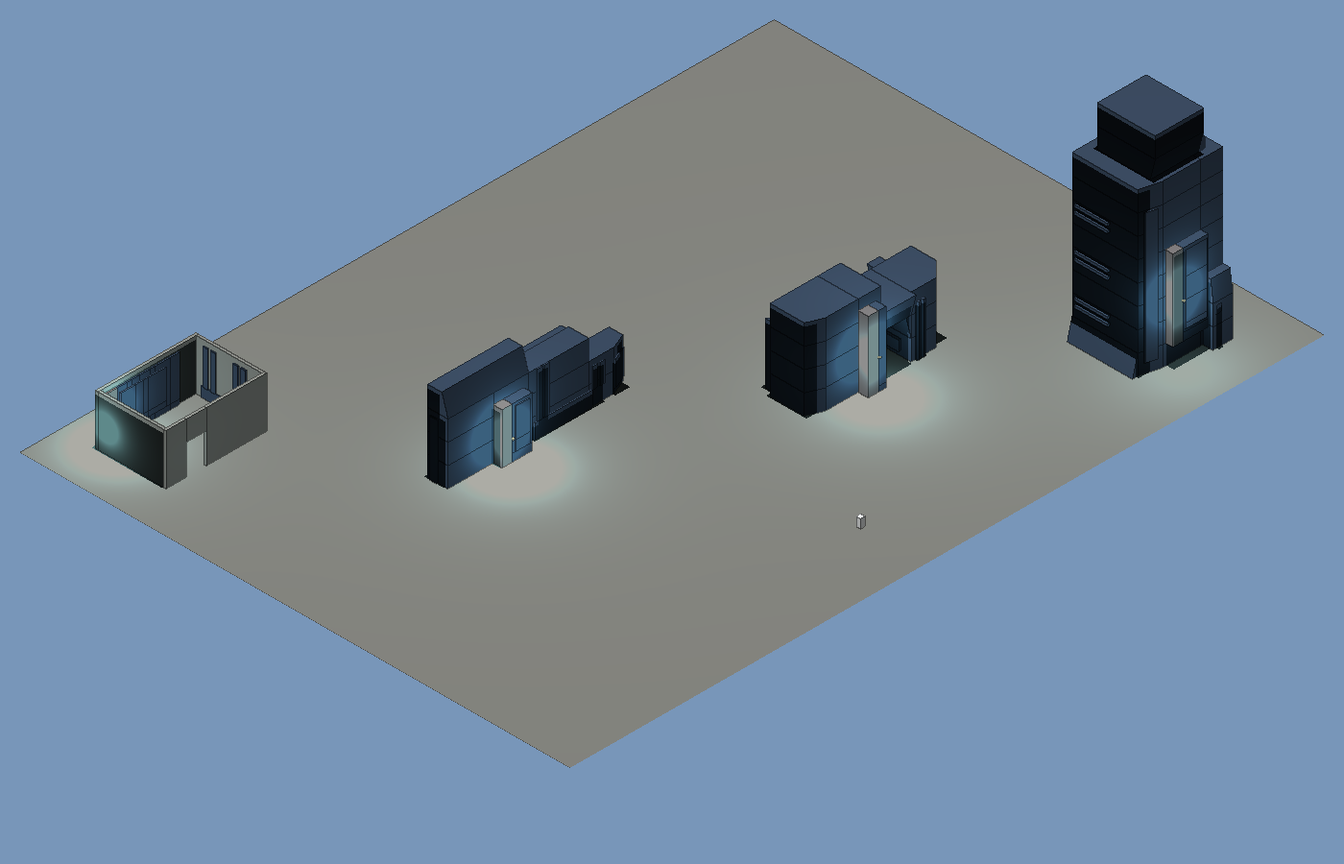
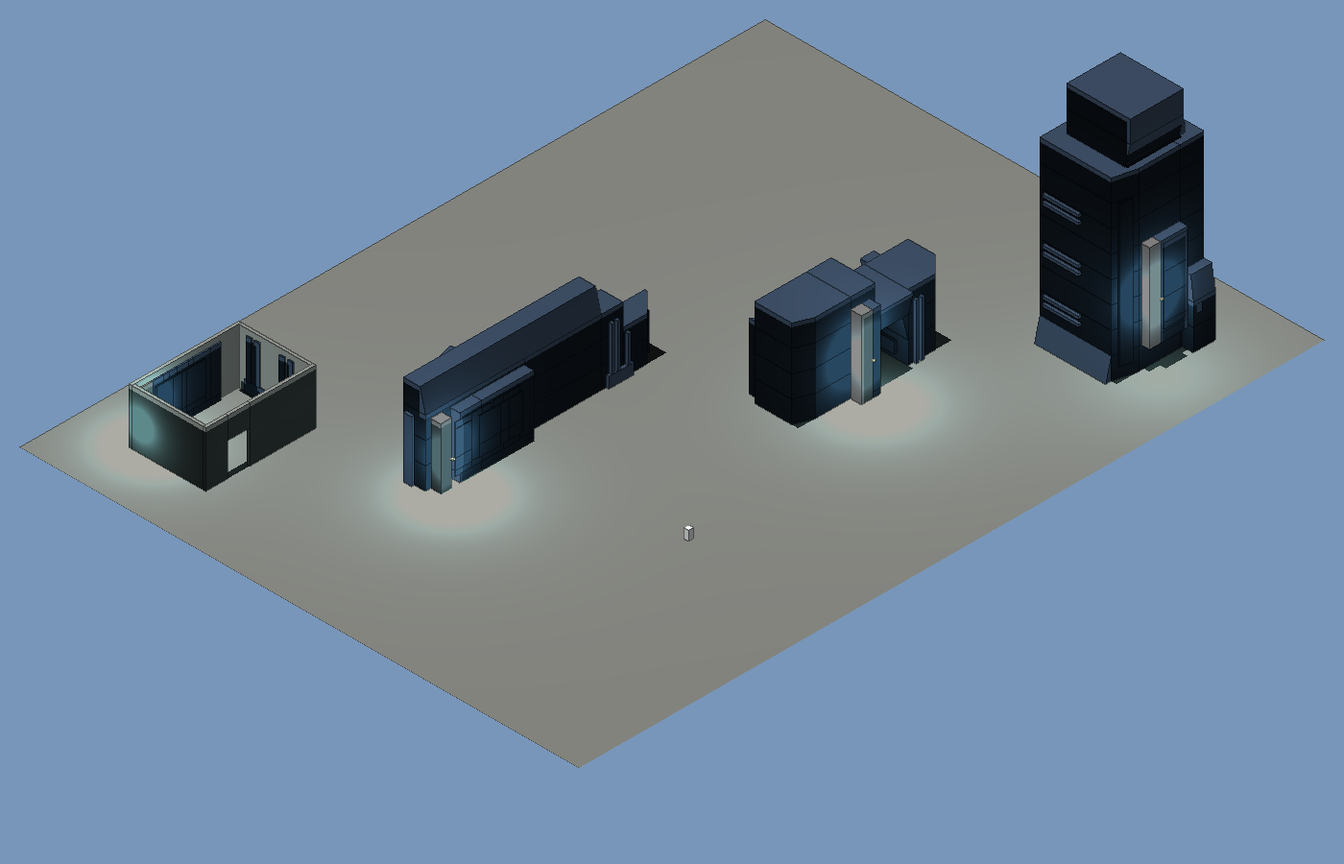
Combine structure generator: map_combine.py, a test map and its picture
Built from the architecture study (the owner: build it next). combine_piece makes
a wall, a gate with unequal sides, a tower, and Combine plating laid inside an
old room, on Valve's measured rules, redrawing any piece whose walls or passages
mirror. map_combine.py test writes lc_combine_test.vmf; map_combine.py check
measures a map the way the study measured Valve's (the test map: 17% off the
axes, passage sides matching 0.24, both in Valve's ranges). Assets pass. No module
uses it until the owner has looked; what it lacks is on TODO.md.

Claude-Session: https://claude.ai/code/session_01Y8SXQm1XpydbURKZPnBeGZ

diff --git a/_dev/reference/valve_ep2/wip/props_craft_notes.md b/_dev/reference/valve_ep2/wip/props_craft_notes.md
@@ -1,191 +1,187 @@
 # Episode Two, the countryside: props, building craft and cross-sections (work in progress, 21 November)
 
-Read from the 18 ep2_outland maps and 25 of Valve's EP2 style rooms with the repo's own reader
-(`_dev/tools/ingest/vmf.py`), Hammer-hidden objects and the 3D skybox left out. "Nodes" are the AI walking nodes,
-standing in for where players walk. Density is trees per 1,000,000 square units (a square 1000 a side). Scripts that
-made the numbers were kept in the chat's scratch folder only.
+From the 18 ep2_outland maps and 25 EP2 style rooms, read with `_dev/tools/ingest/vmf.py` (hidden objects and the
+3D skybox left out). "Nodes" are AI walking nodes, standing in for where players walk. Density: trees per square
+1000 a side. The scripts stayed in the chat's scratch folder.
 
 ## 1. Forest layout (the owner's first ask)
 
-Trees in play (cards left out): 01 180, 05 155, 06a 446, 07 313, 08 173, 09 158, 10 439, 10a 613, 12 479, 12a 90;
-styleguide_forest_01 62, styleguide_logging 106. Models: tree_pine04, 05, 06 make half to three quarters of every
-forest, then tree_dead01 to 04 and tree_dry01, 02 (10 to 25%), tree_deciduous_01a/03a (5 to 10%), tree_pine_large
-(3 to 6%). Every tree is a `prop_static`, solid (vphysics), casting shadows.
+Trees in play (cards apart): 01 180, 05 155, 06a 446, 07 313, 08 173, 09 158, 10 439, 10a 613, 12 479, 12a 90.
+tree_pine04/05/06 make half to three quarters, tree_dead01-04 and tree_dry01/02 10 to 25%, tree_deciduous_01a/03a
+5 to 10%, tree_pine_large 3 to 6%. All `prop_static`, solid, casting shadows.
 
-- **Spacing.** Nearest other tree, median: 148 (05), 154 (01), 165 (10a), 206 (10), 211 (12a), 244 (12), 252 (09),
-  261 (06a), 294 (07), 298 (08); the 10% closest 79 to 179. Ours (simulated from `Forest.plant`): median 132, 10%
-  at 95; Valve's typical gap is half as far again to twice ours.
-- **Alone, not clumped.** With trees linked when within 160: 54 to 97% stand alone (no other within 160). Only
-  01, 05 and 10a put a quarter of their trees in groups of three or more (largest 11 and 14). Ours: 27% alone.
-- **Density.** Over all the ground in the trees' box: 2.6 (06a), 5 (01), about 3 to 6 elsewhere. By distance from
-  the walk: 0 to 128 off the path 0.1 to 7 (thin: the path is kept clear), 128 to 256 0.5 to 8, **256 to 512 2.2 to
-  10.6 (the thickest band in most maps)**, 512 to 1024 1.8 to 6.4, beyond 1024 0 to 3 (then cards). Ours: about 14
-  over the whole valley (21 before the pond and paths take theirs), 28 on the ridge band.
-- **Clearings.** Of the 512 squares with ground in the trees' box, 44 to 82% hold no tree at all (0.44 10a, 0.47
-  12, 0.48 10, 0.57 01, 0.59 06a, 0.73 07). Open ground is the rule; the woods are bands and islands along the way.
-- **How trees meet the ground.** Origin below the displaced ground under it: median 5 to 13, the 10% deepest 20 to 54
-  (on slopes). None stand on the surface. Ours: a fixed 8 down: right in the middle; deeper on slopes would match.
-- **Lean.** 0 to 61% of trees lean more than 2 degrees (01 43%, 05 61%, 06 57%, 08 23%, 12 20%, 10a 15%, 06a 14%,
-  10 10%, 07 7%, 09 0%); median lean of those 4 to 11, the 90th 10 to 27. Ours: none lean.
-- **Yaw** on 15 degree steps for 53 to 99% (the rest free). Fades: fademaxdist mostly 4200 to 7000 (07 all 7000;
-  10a 2200 for 164 small ones); ours 2800 to 3400.
-- **Undergrowth is sparse and lines the path.** Plants (fern01 nearly always, fern01lg, grass_cluster03a, a few
-  shrub_01a): 6 to 155 a map, 0.04 to 0.5 per tree, never solid, half tilted in 10 and 10a. Median distance from the
-  walk 70 to 370, from a tree 110 to 500: ferns edge the path, not the tree feet. Ground cover is the detail sprites
-  (every map sets `detailmaterial` detail/detailsprites, `detailvbsp` detail.vbsp) on blendgrassdirt01, with its
-  twin `blendgrassdirt01_noprop` (no sprites) on the walked ground (07: 14,763 against 6,246 by area). Ours: 170
-  plants a forest (0.74 per tree).
-- **Logs and stumps**: 2 to 133 a map (tree_stump01, fallentree01/02, fallentree_dry01/02, forest_log01; in 12 the
-  sawmill's tree_slice01/02 as physics props); 39 to 100% tilted; median 110 to 500 from a tree.
-- **Rocks**: 17 to 174 a map (rockcluster01/02, rock_coast02a to h, rocks_large/xlarge*_veg, forestrock_cluster01/02),
-  41 to 76% tilted more than 5 degrees, static; median 160 to 340 from a tree, 180 to 940 from the walk. Ours: 34 a
-  forest, none tilted.
+- **Spacing**: nearest other tree, median 148 (05), 154 (01), 165 (10a), 206 (10), 244 (12), 252 (09), 261 (06a),
+  294 (07), 298 (08). Ours (simulated `Forest.plant`): 132.
+- **Alone, not clumped**: 54 to 97% have no other tree within 160; only 01, 05, 10a put a quarter in groups of
+  three or more (largest 11, 14). Ours: 27% alone.
+- **Density by distance from the walk**: 0-128 0.1 to 7 (the path kept clear), 128-256 0.5 to 8, **256-512 2.2 to
+  10.6 (the thickest band in most maps)**, 512-1024 1.8 to 6.4, beyond 1024 0 to 3, then cards. Whole box 2.6
+  (06a) to 5 (01). Ours: about 14 over the valley (21 before pond and paths), 28 on the ridge band.
+- **Clearings**: 44 to 82% of the 512 squares with ground hold no tree (10a 0.44, 12 0.47, 10 0.48, 01 0.57, 06a
+  0.59, 07 0.73).
+- **Footing**: origin below the ground under it, median 5 to 13, the deepest tenth 20 to 54 (slopes). Ours: 8.
+- **Lean**: more than 2 degrees on 0 to 61% (05 61, 06 57, 01 43, 08 23, 12 20, 10a 15, 06a 14, 10 10, 07 7, 09
+  0), median of those 4 to 11, 90th 10 to 27. Ours: none. Yaw on 15 degree steps 53 to 99%.
+- **Fades** 4200 to 7000 (07 all 7000; 10a 2200 on 164 small ones). Ours 2800 to 3400.
+- **Undergrowth** (fern01 nearly always, fern01lg, grass_cluster03a, shrub_01a): 6 to 155 a map, 0.04 to 0.5 per
+  tree, never solid; median 70 to 370 from the walk, 110 to 500 from a tree: it edges the path. Ground cover is the
+  detail sprites (`detailmaterial` detail/detailsprites everywhere) of blendgrassdirt01, with the no-sprite twin
+  `blendgrassdirt01_noprop` on walked ground (07: 14,763 against 6,246 by area). Ours: 170 a forest (0.74 a tree).
+- **Logs and stumps** 2 to 133 a map, tilted 39 to 100%. **Rocks** 17 to 174 a map, tilted over 5 degrees 41 to
+  76%, median 160 to 340 from a tree. Ours: 34 rocks, 12 logs, none tilted.
+- **Terrain**: floor displacements power 2 on 60 to 80% (3 on the rest, 4 on six in 07), 441 to 1024 a side
+  (a vertex every 128); alpha painted on 38 to 97%. Ours: 512 at power 3 (every 64).
 
 ## 2. How a forest is bordered
 
-- **Cards, then the painted sky.** Past the last trees (about 1000 to 2000 from the walk) stand
-  `tree_pine_card_cluster_01/02`, `tree_deciduous_card_01`, `tree_pine_tall_cluster_01`: flat clumps, not solid in
-  most maps (0.8 to 1.0), median 870 to 2340 from the walk, 500 to 1200 beyond the last real tree. 3 to 42 a map.
-  The 3D skybox holds no trees at all: it is brushes painted with `mountainrange_far_*`, `mountains_skybox02`,
-  `groundplane_01c` (and Citadel clouds), 8 to 44 brushes, 0 to 11 displacements.
-- **Invisible walls on the slopes.** 26 to 177 `toolsplayerclip` brushes a forest map, median 54 to 570 from the
-  walk, tall (median 336 to 896) and 192 to 576 long, half of them turned off the axes: the player is stopped by a
-  clip laid over a slope or along the trees, never by a wall he sees.
-- **Steep ground.** Steep displacement (more than about 53 degrees) is 0.13 to 1.43 of the flat ground's area;
-  cliff materials `cliff01a`, `cliff02a`, `cliff04a` with rockcliff01b/c/j and rockcliff_cluster02a/b models
-  dressing their feet 80 to 530 from the walk.
-- **Rail fences along the way.** `props_forest/fence_border_128/256/512` and `fence_trail_128/256/512` (271 in
-  five maps): chained end to end (nearest piece 130 to 264 apart), 145 to 260 from the walk, turned freely (73 to
-  86% off the axes), border fences never tilted, trail fences a quarter tilted 5 to 10. They mark the edge of the
-  road and trail; chain-link (`exterior_fence002*`) is kept to the bases and yards.
-- Ours: a ridge 440 high round a 4096 valley, thickest planting on the ridge (`d < 380`), the city's skybox over it.
+- **Cards past the last trees**: `tree_pine_card_cluster_01/02`, `tree_deciduous_card_01`,
+  `tree_pine_tall_cluster_01`, 3 to 42 a map, median 870 to 2340 from the walk and 500 to 1200 beyond the last real
+  tree, not solid in most maps. In 12 no real tree stands beyond 512 from the walk.
+- **Invisible walls on the slopes**: 26 to 177 `toolsplayerclip` brushes a map, median 54 to 570 from the walk,
+  tall (median 336 to 896), 192 to 576 long, half off the axes.
+- **Steep ground and cliffs**: steep displacement 0.13 to 1.43 of the flat area; `cliff01a/02a/04a`, rockcliff01b/c/j
+  and rockcliff_cluster02a/b at their feet 80 to 530 from the walk; `clifftrees_cardboard01a/02a` displaced faces
+  in 01 paint trees on the cliffs (1,562 of displaced area).
+- **The 3D skybox holds no trees**: brushes painted `mountainrange_far_*`, `mountains_skybox02`, `groundplane_01c`
+  (8 to 44 brushes, 0 to 11 displacements), Citadel cloud models.
+- **Rail fences** `props_forest/fence_border_*` and `fence_trail_*` (128/256/512; 271 in six maps) chained end to end
+  (nearest piece 130 to 264), 145 to 260 from the walk, 73 to 86% off the axes; chain-link only at yards and bases.
+- **Roads**: gravel blends on displacements (blendgravelgravel02b, blendgrassgravel01/003a, forest_road01) with
+  `road_dirt_01a/b` rut overlays about 300 square chained every 215 to 290.
+- Ours: a 4096 valley inside a ridge 440 high, thickest planting on the ridge, the city's skybox.
 
 ## 3. Mines, antlion tunnels and the nest (the owner's second ask)
 
-Measured by casting rays from every AI node (16 ways level at 40 up, one up, one down) against displacements and
-solid brushes. "Cave" nodes have a displaced roof and displaced walls; "built" ones a brush roof (mine galleries,
-the Resistance's works). Maps: 01a (the mine and first grub caves), 02 (the vortigaunt cave, the extract), 03 (the
-long dig, the mine works, the tall and water caves), 04 (the nest, the guardian's maze); style room `caves`.
+Rays from every node (16 ways level at 40 up, up, down) in 01a, 02, 03, 04. "Cave": displaced roof and walls.
 
-- **Natural passages** (cave nodes 297, 40, 287, 281): narrowest width median 298 (01a), 131 (02), 266 (03), 219
-  (04); 10% under 117 to 180; height median 243, 148, 243, 220, a quarter under 158 to 190, a quarter over 319 to
-  371. 60 to 74% of cave nodes are in tunnels under 384 wide, 17 to 20% in chambers 512 wide or more; the longest
-  way across a chamber 1500 to 1840 (75th percentile). So: about three parts tunnel 220 to 300 wide and 160 to 240
-  high to one part chamber 512 to 1800 across. Ours: the cave is hung on a square 320 wide and 320 high, the nest's
-  tube about 345 wide narrowing to 760 in its chambers (radius 150 to 330): in Valve's upper quarter, chambers
-  about a third of the nest's length.
-- **Built galleries**: height 192 at the median in every map (q25 176 to 192), width median 294 to 365. The mine's
-  timber sets are models in two sizes, `props_mining/struts_tunnel192_01..03` and `struts_tunnel320_01..05`, one
-  every 160 to 280 along the gallery (median 192 to 280), square to the grid in 69 to 100%; `struts_single01/02` (a
-  lone post, every 90 to 170), `struts_wall02/03` (every 250 to 450), `struts_ceiling02`. 42 to 88 sets a cave map.
-  Ours (Ravenholm lesson `raven-mine-sets`): a timber set every 512 in a displacement cave. Valve's are twice as
-  close where it is a gallery, none in the raw cave.
-- **Ground and walls**: displacement materials by area: 01a `rockwall_cave02a` (3258), 03 and 04
-  `blendrockslime02a` (3035, 5618), `blendrockdirt_tunnel03a`, `blendrockblack02a`, and the nest's web
-  `antlion_web01a` on 456 to 582 of displaced area; mine floors `blenddirtrock_mine01a`, `dirtfloor_mine001a`. Power
-  2 is 89% of 01's displacements; caves use 948 to 1708 displacements a map.
-- **Grubs** (01a 93, 03 143, 04 96, style room 100): in **groups of two to four**, the nearest grub 23 to 50 away
-  (median), groups 100 to 200 apart; half of them on walls (pitch or roll 45 to 135), 0 to 13 on ceilings; a
-  quarter within 60 of the walk, half within 110 to 320. **A small light sits in each group** (median 30 to 43 from
-  the nearest grub in 01a and the style room): `_light` 255 245 157 (a pale yellow-green), brightness 30 to 80,
-  quadratic, fifty-percent at 300 in 01a. 38 to 60 of these a map. Ours (`NestTube`): 19 grubs one at a time every
-  110 along the wall feet, all upright, and six lights for the whole nest (greens 190 255 130).
-- **Light in the caves**: 69 to 128 lights a map, all steady (style 0), quadratic. Three kinds: the grubs' yellow
-  (255 245 157, 30 to 80), the miners' cage lamps (255 226 174, often 80 to 136, on `light_cagelight02_on`), and a
-  cold dim fill (132 158 202, brightness 25: half of 04's lights). Every walking node is within 165 to 185 of a
-  light at the median, 90% within 430 to 600. Fog 18 23 35 from 1 to 2800 in every cave map.
-- **The nest** (04): `props_hive/nest_lrg_flat` 78 and `nest_med_flat` 30 laid on the floors, `websackhalf`, `_b`,
-  `_c` 30 on walls, `websackceiling01..05`, `websackceilingbig01/02/05` overhead, `grubtunnel_door` 6 to 15 a map
-  (the web plugs of side tunnels), `nest_extract` with `larval_essence` at the end. Hive crust is the displacement
-  material, never brushes.
-- **The guardian's ground**: the guard stands in a passage 190 to 380 across at its narrowest, 1000 to 1740 long,
-  230 to 290 high (02, 03, 04, style room): the long cave lets him charge. Flags `cavernbreed` 1, `incavern` 1, and in
-  04 `shovetargets` naming rocks he throws.
-- **Stalactites** (`props_mining/stalactite_static01..04`, `stalactite_cluster01`) 12 to 50 a cave map, with
-  `caverocks_cluster01/02` heaped on the floors; `rock_forest01/02` and rockgranite02a as fallen rock.
+- **Natural passages** (nodes 297, 40, 287, 281): narrowest width median 298, 131, 266, 219 (tenth 117 to 180);
+  height median 243, 148, 243, 220 (quartiles 158 to 190 and 319 to 371). 60 to 74% of cave nodes in tunnels under
+  384, 17 to 20% in chambers 512 or more, a chamber's long way 1500 to 1840 (75th percentile). Ours: the cave on a
+  320 by 320 square; the nest about 345 wide, 760 in its chambers (`NestTube` radius 150 to 330).
+- **Built galleries**: 192 high (median, every map), 294 to 365 wide; timber sets are models,
+  `props_mining/struts_tunnel192_01..03` and `struts_tunnel320_01..05`, every 160 to 280 (median 192 to 280),
+  square in 69 to 100%; `struts_single01/02` posts every 90 to 170, `struts_wall02/03` every 250 to 450. None in raw
+  cave. Ours (`raven-mine-sets`): a set every 512.
+- **Surfaces**: `rockwall_cave02a` (01a 3,258), `blendrockslime02a` (03 3,035, 04 5,618), `blendrockdirt_tunnel03a`,
+  `blendrockblack02a`, the web `antlion_web01a` (456 to 582); mine floors `blenddirtrock_mine01a`. 948 to 1708
+  displacements a cave map.
+- **Grubs** (01a 93, 03 143, 04 96, style room 100): groups of two to four, nearest grub 23 to 51, groups 100 to 200
+  apart; half on walls (pitch or roll 45 to 135), 0 to 13 on ceilings. **A small light in each group**, median 30
+  to 43 from it, `_light` 255 245 157 at 30 to 80, quadratic: 38 to 60 a map. Ours: 19 grubs one at a time every
+  110 at the wall feet, six lights in the nest (190 255 130).
+- **Light**: 69 to 128 lights a cave map, all steady and quadratic: grub yellow 255 245 157, cage lamps 255 226 174
+  (80 to 136), a cold fill 132 158 202 at 25 (half of 04's). Node to nearest light median 165 to 185, 90% within
+  430 to 600. Fog 18 23 35 from 1 to 2800 everywhere. Ours: 7 lights in the 3072 cave, 6 in the 2560 nest.
+- **The nest** (04): `nest_lrg_flat` 78 and `nest_med_flat` 30 on the floors, `websackhalf/_b/_c` 32 on walls,
+  `websackceiling01-05` and `websackceilingbig01/02/05` overhead, `grubtunnel_door` 6 to 15 a map plugging side
+  holes, `nest_extract` and `larval_essence` at the end. Stalactites (`stalactite_static01-04`) 12 to 50 a map.
+- **The guardian's ground**: 190 to 380 across at the narrowest, 1000 to 1740 long, 230 to 290 high; `cavernbreed`
+  1, `incavern` 1, `shovetargets` naming rocks (04).
 
-## 4. White Forest base and the rocket silo (the owner's third ask)
+## 4. White Forest and the rocket silo (the owner's third ask)
 
-Which map is which (from the visgroups and entities): **ep2_outland_11** the base under the hill and the **rocket
-silo** with the rocket being finished (the core silo); **11a** the second silo (visgroups `Silo_2`,
-`Silo2_stairwell`, `Silo2_ramped_exit`, `fallendoor_silo2`), flooded at the foot, with the sliding missile doors on
-top, where the Combine come in; **11b** the hangar and the surface buildings in snow; **12** the strider battle
-round the base's barns and yards; **12a** the launch control room, the hangar and the ending barn (its rocket is a
-`rocket_low` model on a `func_tracktrain` in an open set, not a shaft: not worth lifting).
+Maps: **11** the base and the **rocket silo** (the core one); **11a** Silo 2 (visgroups `Silo_2`, `Silo2_stairwell`,
+`Silo2_ramped_exit`), flooded at its foot, missile doors on top; **11b** hangar and surface in snow; **12** the
+strider battle round the barns; **12a** launch control, hangar, the ending barn (its rocket is `rocket_low` on a
+`func_tracktrain` in an open set, not a shaft).
 
 ### The core silo in ep2_outland_11: exact bounds
 
-- **The silo block** (every brush inside it lies within; a slab lids it): **x 1280 to 2368, y -10480 to -9392,
-  z -1792 to 64** (1088 by 1088 by 1856), centred on the rocket's axis **x 1824, y -9936**. Inside: 1,765 brushes
-  (674 world, 957 func_detail, 37 func_brush, 21 func_tracktrain pieces, 14 func_door_rotating, 8 func_door, 9
-  trigger_multiple, 13 func_viscluster) and 790 entities (159 prop_static, 87 info_node, 74 info_target, 47
-  env_sprite, 39 light, 35 light_spot, 29 prop_physics, 28 keyframe_rope, 27 info_overlay, 24 prop_dynamic, 21
-  env_cubemap, 18 ambient_generic, 17 scenes, 16 scripted_sequence...).
-- **Ways out of the block** (brushes crossing its edge): north at x 1824 to 1904, y -9432 to -9232, z -1408 to -832
-  (to the lab); north-east at x 2144 to 2560, y -9584 to -9264, z -1280 to -1152; north-west at x 1344 to 1580, y
-  -9520 to -9296, z -1472 to -1248; west near the top at x 1184 to 1440, y -10080 to -9792, z -320 to 128 (the lift
-  from the surface, visgroup `elevator_2` at x 1284 to 1419). A piece lifted whole needs these four mouths capped.
-- **The shaft**: a **24-sided cylinder**, its flats 254 from the axis (256 to the corners; the sides turned 7.5
-  degrees off the axes), `concretewall010a` lined to its full height with `metalwall069a` panels; straight from the
-  floor at z -1406 to z -300 (1106). Over it a **collar of 24 sides at 381** (384) from z -252 to 32, and the lid
-  (world slab z 32 to 64, x 1280 to 2368, y -10480 to -9392) closing it; above z 84 is open sky.
-- **The pit** under the rocket: a grate (`metalgrate014a`) at z -1568 over a floor at z -1728 (`metalhull003a`),
-  x 1632 to 2016, y -10112 to -9760; an inner ring wall at 127 to 159 from the axis (`concretewall073b`,
-  `ep2_concretewall01b/c`, `concretewall062a`).
-- **Levels in the shaft** (floors between 150 and 256 from the axis, each a full 24-sided ring): z -1406 (the
-  shaft floor, `concretefloor039b`), -832 (a slab -896 to -832), -576, and the gantry at -320 (`metalgrate_silo01a`
-  on `metaltruss011a/017a` trusses, func_detail); inside 150, grates `metalgrate_silo01b` at -1406, -832, -576 hug
-  the rocket. Ring rooms from 256 out to 508 to 552 open off the shaft at z -1404 to -1308, -828 to -684, -540 to
-  -348 and -300 to -204 (a wide opening at the top gallery, 790 to 980 deep); their floors at -1408, -1280/-1216,
-  -1152, -832, -640/-576, -448/-384/-320, -160/-128/-96.
-- **The rocket, to leave out**: prop_static `props_silo/rocket.mdl` (origin z -473), `rocket_stage1` (z -1381),
-  `rocket_stage2` (-989), `rocket_stage3` (-801), three `rocket_engine` (-1381), prop_dynamic `rocket_hatch`
-  (`prop_rocket_hatch`, -474) with its func_door_rotating `door_rocket_hatch`, env_steam `steamjet_rocket_*`,
-  info_lighting `lighting_rocket_1/2`, and the scene marks `mark_*rocket*`, `target_rocket_cam`, all on x 1824,
-  y -9936.
-- **Silo 2 (11a)** is the same design on axis x 1824, y -11264: the 24 sides at 254 from z about -1354 to -200,
-  a ring at 239 at z -106, the collar at 382 at z 182; water (`water_silo_01`) from z -1344 to -1100 in its foot;
-  the top shut by `props_silo/missile_doors` (frame z 161) moved by two `func_movelinear` (`silo_seal_door`,
-  `_2`) sliding 136 apart along y at speed 5. Ours: the bunker's two sliding leaves (`BunkerForest.door`) already
-  work this way.
+- **The block**: **x 1280 to 2368, y -10480 to -9392, z -1792 to 64** (1088 x 1088 x 1856), axis **x 1824, y
+  -9936**. 1,765 brushes lie wholly inside (674 world, 957 func_detail, 37 func_brush, 21 func_tracktrain, 14
+  func_door_rotating, 8 func_door, 13 func_viscluster) and 790 entities (159 prop_static, 87 info_node, 74
+  info_target, 47 env_sprite, 39 light, 35 light_spot, 29 prop_physics, 28 keyframe_rope, 24 prop_dynamic, 21
+  env_cubemap, 17 scenes, 16 scripted_sequence).
+- **Four mouths** (brushes crossing the edge): north x 1824-1904, y -9432 to -9232, z -1408 to -832 (to the lab);
+  north-east x 2144-2560, y -9584 to -9264, z -1280 to -1152; north-west x 1344-1580, y -9520 to -9296, z -1472 to
+  -1248; west x 1184-1440, y -10080 to -9792, z -320 to 128 (the lift from the surface, `elevator_2`).
+- **Shaft**: a **24-sided cylinder**, flats 254 from the axis (256 to the corners, sides turned 7.5 degrees),
+  `concretewall010a` lined with `metalwall069a`, from the floor at z -1406 to -300; a **24-sided collar at 381**
+  from -252 to 32; the **lid** a world slab z 32 to 64 over the whole block; open sky above z 84.
+- **Pit**: grate `metalgrate014a` at z -1568 over `metalhull003a` at -1728, x 1632-2016, y -10112 to -9760; an
+  inner ring wall 127 to 159 from the axis (`concretewall073b`, `ep2_concretewall01b/c`).
+- **Levels**: full 24-sided ring floors (150 to 256 out) at z -1406 (`concretefloor039b`), -832 (slab -896 to
+  -832), -576, gantry -320 (`metalgrate_silo01a` on `metaltruss011a/017a`, func_detail); grates
+  `metalgrate_silo01b` inside 150 at -1406, -832, -576 hug the rocket. Ring rooms from 256 out to 508-552 open at z
+  -1404 to -1308, -828 to -684, -540 to -348, -300 to -204 (790 to 980 deep at the top gallery); their floors
+  -1408, -1280/-1216, -1152, -832, -640/-576, -448/-384/-320, -160/-128/-96.
+- **Leave out (the rocket)**: `props_silo/rocket.mdl` (z -473), `rocket_stage1` (-1381), `_stage2` (-989),
+  `_stage3` (-801), three `rocket_engine` (-1381), `rocket_hatch` (`prop_rocket_hatch`) and `door_rocket_hatch`,
+  `steamjet_rocket_*`, `lighting_rocket_1/2`, marks `mark_*rocket*`, `target_rocket_cam`.
+- **Silo 2 (11a)**, same design on x 1824, y -11264: 24 sides at 254 from about z -1354 to -200, the collar at 382
+  at z 182, water `water_silo_01` z -1344 to -1100, shut by `props_silo/missile_doors` (frame z 161) on two
+  `func_movelinear` (`silo_seal_door`, `_2`) sliding 136 along y at speed 5. Ours: the bunker's sliding leaves.
 
-### The base round it (11, 11a, 12a)
+### The base (11, 11a, 12a)
 
-- One rough pale concrete, `concretewall010a`, is 43 to 45% of all brush area in 11 and 11a; banded in 59 to 63%
-  of wall columns, the first change at 64 or 128 (`ep2_concretewall01a > 01c`, `concretewall_bunker05b > 05a`,
-  `06a > 06c`); floors `concretefloor_bunker02a`, `concretefloor006a`; ceilings `concreteceiling_bunker01a`.
-- Rooms: ceilings median 192 (quartiles 186 and 229 in 11; 144 and 252 in 11a); stairs 8 by 12 and 8 by 16.
-- Doors: the sliding steel door is a `props_silo/silo_door01` prop_dynamic carried by a func_door 99 by 123 (5 to
-  12 a map); wide ones 80 by 160. Lights: cold fluorescent tubes (224 254 248, 61 of 161 in 11a) in
-  `prison_flourescentlight001a` and `lab_flourescentlight001a/002b`, warm 252 241 180 in work rooms, red alarm
-  lamps (240 51 30, `light_security`, 12 to 32 a map), `wall_light` and `industriallight01` in the silos.
-- Props in the base (props_silo): `prodcables256`, `wall_wires1/2` along walls, `wall_console1..3`,
-  `desk_console1a/2/3`, `fuel_cask`, `pushcart`, `tirestack2/3`, `acunit01/02`, `electricalbox01/02`,
-  `handrail_alley-upperdeck`, `handrail_singlespan_128`.
+`concretewall010a` is 43 to 45% of brush area; walls banded in 59 to 63% of columns, first change at 64 or 128
+(`ep2_concretewall01a > 01c`, `concretewall_bunker05b > 05a`). Corridors (rays from nodes): narrowest median 181 to
+248, height median 178 to 192; stairs 8x12 and 8x16. Doors: `props_silo/silo_door01` prop_dynamic on a func_door 99
+x 123; wide ones 80 x 160. Light: cold tubes 224 254 248 (61 of 161 in 11a), warm 252 241 180 in work rooms, red
+`light_security` 12 to 32 a map. Dressing (props_silo): `prodcables256`, `wall_wires1/2`, `wall_console1-3`,
+`desk_console1a/2/3`, `fuel_cask`, `pushcart`, `tirestack2/3`, `acunit01/02`, handrails.
 
-## 5. Farmhouses, barns, the inn, sheds: timber and decay
+## 5. Farmhouses, barns, the inn, sheds
 
-- **Timber is brush, in small sections, much of it off the square.** Wood brushes (most faces wood): barn 620
-  (276 off the axes), farmyard 1088 (521), inn 495 (203), logging camp 503 (228), farmhouse1 127, farmhouse2 97.
-  Sections (the two short sides): boards 2x4 and 2x5 (barn 199 of 620, farmyard 319), planks 4x13 and 2x11/2x12,
-  studs 4x8 and 4x10 (farmhouses), beams 10x18, 10x10 and 8x8, posts 6x6 and 8x8 (the logging camp's frames 8x8 on
-  112 of 503, the elevator tower 8x8 and 6x8). Lengths median 111 (barn), 104 (farmyard), 55 (inn). Nearly all
-  `woodfloor005a` (barn 521, farmyard 832) with woodwall008a/009a/024a for cladding. Ravenholm's houses
-  (`raven-timber-craft`) were 4x8 timbers standing 4 proud: the EP2 farms are finer and more often turned.
-- **Roofs** pitched 45 and 34 degrees (1 in 1, 2 in 3) on the farms, 27 at the logging camp; Ravenholm's 20 to 35.
-- **Decay, read from the deterioration room** against the sound barn (both 620 wood brushes): off the axes 59%
-  against 45%; func_detail 75% against 20%; boards shorter (median length 62 against 111); and **539 displacements
-  where the sound barn has none**, power 2 on 479 (4 on 36): boards bent (woodfloor005a 212, strips about 153 by 30
-  to 39), roof tiles sagging (`tileroof003a` 68), corrugated sheets buckled (`metalwall014a` 50), brick bulging (33);
-  95 on ceilings, 354 on walls. The inn bends its shingles and stone the same way (139 displacements, all power 2);
-  the large outland house breaks its brick edges with 40 small brick displacements (21x6, 24x6).
-- **Windows are two models on one spot**: the frame `woodwall030b_window01a/02a/03a`, `plasterwall029c/g_window01a`
-  as prop_static, and its `_bars` twin as prop_dynamic at the same origin (inn 34 of 41, farmyard 33, 07 20 of 21).
-- **Farm rooms are bare shells**: farmhouse1 and 2 hold two `furniture_chair01a`, a `sinkkitchen01a`, a pot, a
-  bucket, a shovel; the farmyard the same twice. Only the inn is furnished: 13 chairs and 7 tables, 7 radiators, a
-  dresser, drawers, two armchairs, two couches, a bed, a bathtub, a toilet, a stove, a fridge, a boiler, 10 unlit
-  dome lamps, hay bales and boards (`wood_board03a/04a/06a`) nailed over openings.
-- **A Resistance outpost** (radio tower b, and the house in 06a): `bunkbed` and `bunkbed2`, `prison_sink001a`,
-  `furnituretoilet001a`, `furnitureboiler001a`, `propane_tank001a` and canisters, `box01a/b`, `wood_pallet001a`,
-  `oildrum001`, tires, `kitchen_shelf001a`, file cabinets, a clock, bare bulbs (`lightbulb01a`), dome lamps lit.
-- Ours: our bunker rooms and the cave office (`docs/dev/map-building.md`).
+- **Timber**: wood brushes barn 620 (276 off the axes), farmyard 1088 (521), inn 495 (203), logging 503 (228).
+  Sections: boards 2x4, 2x5; planks 4x13, 2x11/12; studs 4x8, 4x10; beams 10x18, 10x10, 8x8; posts 6x6, 8x8.
+  Lengths median 111 (barn), 104 (farmyard), 55 (inn). `woodfloor005a` on most. Roofs 45 and 34 degrees (27 at the
+  logging camp). Ravenholm's: 4x8 standing 4 proud, roofs 20 to 35.
+- **Decay** (deterioration room against the sound barn, 620 wood brushes each): off the axes 59% against 45%,
+  func_detail 75% against 20%, boards median 62 against 111 long, and **539 displacements against none** (power 2
+  on 479): boards bowed (woodfloor005a 212, strips 153 x 30-39), tiles sagging (`tileroof003a` 68), tin buckled
+  (`metalwall014a` 50), brick (33); the inn bends shingles and stone (139, power 2).
+- **Windows**: frame prop_static plus its `_bars` twin prop_dynamic on the same origin (inn 34 of 41, farmyard 33).
+- **Rooms**: farmhouses bare (two chairs, a kitchen sink, pot, bucket, shovel); only the inn furnished (13 chairs, 7
+  tables, 7 radiators, bed, bath, stove, fridge, 10 unlit dome lamps, boards over openings). A Resistance outpost
+  (radio tower b, the house in 06a): bunk beds, prison sinks, toilet, boiler, propane, boxes, pallets, drums,
+  tires, file cabinets, a clock, bare bulbs.
+- **Radio mast** (06a): `props_radiostation/radio_antenna01` with three anchors (`radio_antenna01_pylon`) at yaw
+  180, 300, 60, 1051 to 1662 out, each with three `radio_antenna01_stay` pitched 30/45/52 (48/58/64); antennas
+  `antenna03a` on nearby roofs, a `radio_station_roof` hut, `radio_antenna01_skybox` in the skybox.
+- **Bunkers** (style room): walls 32 thick (`concretewall_bunker01a/b/c`), piers 24 x 32, `blastdoor001a`; the
+  concrete meets the hill through a `blendbunk_conc01` displacement (12 too).
+
+## 6. Light and sky
+
+Outdoor sun by map shows the day going on: 01, 06a, 07 pitch -35, `240 238 217` 600 (05, 08 650); 09, 10 pitch -25,
+`242 210 189` 700; 12 pitch -35 `240 185 130` 800; 12a pitch -15 `240 184 130` 750 with ambient `70 124 164`.
+Ambient mostly `144 175 198` at 145 to 280. Fog blue-grey (60-67, 73-88, 87-105), start 64 to 512, end 4500 to
+8000, farz 6200 to 14000; skybox scale 16. The vista room's sun stands at pitch -4 (`205 166 48`, a sunset).
+Forests have no lights of their own. Ours: the city's one sun and skybox serve the forests.
+
+## 7. Combine architecture (Episode Two)
+
+Little is built: an outpost in a farmhouse in 07 (88 brushes of `citadel_metalwall077a/091a/060a`, x -10136 to
+-9272, y -9804 to -9399, z 53 to 496: 864 x 405 x 443; 70% off the axes; plates 2 to 6 thick; 60 func_detail, 22
+func_lod, a `func_movelinear` generator; `combine_lock01`, `combine_wire002`, `combine_interface001`); the advisor's
+pod and platform in 05 (`advisorpod`, `combine_podholder`, func_brush `advisor_platform`); the roadblock in 10 (seven
+`combine_barricade_tall01b` 58 apart each turned 15 from the last, 21 brackets, fences, `combine_emitter01`,
+force fields `comshieldwall3` in garage doors); a cannon in 09 (`combine_cannon_gun`, `_powergen`, `_stand`).
+White Forest reuses `citadel_metalwall060a` on 53 world brushes leaning 11 and 24 degrees (corridor roofs, 11).
+
+## 8. Cross-sections against ours
+
+- The way through the country: open floor median 312 to 712, 828 to 972 across at 64 up (cut widths, nine maps).
+  Ours: an open valley 4096 square for roleplay, the owner's; keep it, but plant it in bands along the trail.
+- Forest edge: Valve, clip on the slope and cards 1000 to 2000 out. Ours: a ridge 440 high planted thickest.
+- Cave: Valve tunnels about 250 x 200, chambers 512 to 1800. Ours: 320 x 320, nest 345 to 760.
+- Gallery: Valve 192 high, 290 to 365 wide, sets every 192 to 280. Ours: the office rooms; no gallery yet.
+- Silo: Valve's shaft 512 across, 1106 tall to the collar, block 1088 square. Ours: the bunker, no shaft.
+- Base corridor: Valve 181 to 248 wide, ceilings 192. Ours: bunker doorway 256 x 192, inner doors 128 wide.
+
+## 9. Check ideas
+
+Tree gap median, share alone within 160 and empty 512 squares printed by map_forest; every tree at least 4 below
+the lowest ground under its trunk; card props within 600 of the trail flagged; share of rocks tilted; cave rays
+from path nodes (width, height quartiles); largest gap from a cave node to a light (under 600); a grub with no light
+within 160; a `_bars` window with no frame within 2; the lifted silo sealed and free of rocket entities.
+
+## 10. What did not work
+
+The 3D skybox finder gives nothing for the cave maps, 11, 11a, 11b (no sky_camera room); 12a's rocket is not in a
+shaft. Street detection reads open country as "streets" (wall to wall up to 1900): use the cut widths instead.
+Grub orientation is read from pitch and roll only. Ray casts ignore props, so passages narrowed by rocks read wider.
+No scipy here: nearest-neighbour by brute force (fine at these sizes). Branching of the cave tunnels from the node
+graph (links within 1.6 times the node spacing) gave 0.4 to 0.6 junctions per 1000 of links, too rough to use: wide
+places link across. Pictures were not looked at.

diff --git a/docs/dev/map-building.md b/docs/dev/map-building.md
@@ -176,3 +176,14 @@ The owner, 20 November: the Resistance's modules, all but the stash, "need to be
 Run the canal and/or forest in a half ring round the north of the city to a second road's end in the west: the skybox brush 16 x 640 x 1504 at -2616 2240 1584 (brush id 14734, x -2624..-2608, y 1920..2560; the invisible wall before it is 15630). That road runs east-west, its surface is z 840 (184 higher than the east road's 656), its sky z 2336. Checked in their VMF: free just west of the brush; the city reaches x -3056 south of it, -2768 just north, -4120 at y 3072..4096 and about -3430 above that; its north edge is y 6288 (the six leftover rooms, to be deleted, are between x 820 and 3536, y 5876 to 7444). Built since: the ring, above.
 
 **Not built yet:** anything that isn't a box or a displaced face (sloped concrete banks, curves), soundscapes, fog, hints and areaportals for the new areas, a 3D skybox of forest for the forests.
+
+## Combine pieces from the study's recipe (`map_combine.py`; 21 November, not compiled, waits on the owner's look)
+
+The owner asked for the Combine's odd, unsymmetrical architecture ("something we don't do well and the C18 map doesn't do well"). `map_combine.py` builds it by the recipe measured in Valve's Citadel maps (`_dev/reference/valve_citadel/wip/architecture_notes.md`, lessons `valve-combine-*`). `combine_piece(kind, box, seed)` returns convex solids (face lists for `Vmf.detail_shapes`), any old walls, and light positions. Kinds: `wall` (two masses, one stepping down, a 3 to 6 level stack on one side, ribs in pairs, a leaning head, a cut corner), `gate` (a passage whose two sides differ: thin plates 3 to 5 deep on one, leaning in high on the other), `tower` (a cut-cornered core, a leaning crown, a battered foot, a lower slab pressed on one face), `skin` (plates flush and square inside an old room). Masses lie in 128 courses; plates 2, 4, 8 or 16 thick (2 or 3 a piece); turns 45, 26.6, 14.0 or 22.5 as whole-number ratios; sloped corners on the 4 grid; cold light panels (`lights/white004_nochop`, light 147 226 240) flush in the plates; Citadel metal (`citadel_metalwall077a`, `063a`, `072a`, `078a`), texture scale by face size.
+
+```bash
+python3 map_combine.py test --out lc_combine_test.vmf [--seed N]   # floor, sky box, player start, one of each kind
+python3 map_combine.py check FILE.vmf                               # the study's numbers for the Combine in any VMF
+```
+
+It checks itself with the study's own test (`walls.py`, imported from `arch_scripts/`): a draw is kept when its biggest wall of 3+ relief levels matches its mirror below 0.9, one such wall is below 0.6, and every passage's two sides below 0.5; else it is drawn again (60 tries, then the least mirrored). `check` gives the same numbers as the study on `d3_citadel_02` (3.8% off the axes, plates 62%, walls below 0.6 26%, small-against-big pairs 15.4%). On the test map (seed 1): 17% off the axes, leaning 7%, turned 10%, plates 50%, 3+ layers on 32% of the area, walls below 0.6 30% and 0.9+ 50%, passages 0.24: inside Valve's ranges. Short of them: small against big 3% (Valve 16%: its slabs run 1024 long, ours are smaller) and texture scale 0.25 on 91% (faces under 512). The study's face test hides a whole face when its middle is under a plate, so a stack is set to one side of its mass, which is jointed there. **No module uses it yet: the owner looks at `lc_combine_test.vmf` first.**

diff --git a/TODO.md b/TODO.md
@@ -379,3 +379,4 @@ Nothing below was changed. Each is a question for the owner.
 - [ ] **Citadel pieces, to check before use (21 November):** the walkway reactor's float works in HL2 by the player's physics copy losing gravity; untested in Garry's Mod (judder expected: the fallback is a Lua zone with low gravity and damping); `prop_coreball` (the core's ball) is not in the public Source 2013 code and may not exist in Garry's Mod: check on the server. `map_assets.py` calls the pod models missing because of old `asset_facts.json` entries without a `game` key (see the Black Mesa East line). Details: `docs/dev/prefabs.md`, "Pieces with their wiring (the Citadel)".
 - [ ] **White Forest's missile silo into our bunker (the owner, 21 November: "lift the core missile silo brushes/map area (minus the missile) and add it to the existing bunker we have"):** lift the silo from ep2_outland_12 or 12a as a piece with batch 7 (`docs/dev/valve-ingest-progress.md`), then join it to the forest bunker (`_dev/tools/map_forest.py`, `lc_forest_bunker.vmf`). Owner-approved; built with the other Valve work after ingestion unless the owner says sooner. Also from EP2 for our own cave and forest: the forest layouts and borders, the mines and antlion tunnels (the EP2 notes, `_dev/reference/valve_ep2/`).
 - [ ] **Valve's wiki vs the map lessons (after all Valve map ingestion is done; the other chat is still ingesting):** one pass comparing every lesson in `_dev/reference/lessons.json` with the wiki's bugs, warnings and notes for the entities it names (`python3 _dev/tools/vdc.py --card CLASS`, `--gotchas WORDS`), listing any lesson the wiki contradicts or adds a catch to, for the owner to decide; change no lesson without the owner's OK.
+- [ ] **Combine generator, what it lacks (21 November; `docs/dev/map-building.md`, last section):** small pieces against ones 8 times their size come out at 3% (Valve 16%: our pieces are small, Valve's slabs run about 1024); two relief levels cover 37% of the area (Valve 10 to 29%) and steps of 16 and 32 lead instead of 64, 48, 56; a tower often has no wall below 0.6; it imports the mirror test from `_dev/reference/valve_citadel/arch_scripts/walls.py` (keep that folder); 31 KB, over the 20 KB aim. No module uses it until the owner has looked at `lc_combine_test.vmf`.

diff --git a/PLAYTEST_ARCHIVE.md b/PLAYTEST_ARCHIVE.md
@@ -102,3 +102,4 @@ To add an item: `printf '%s\n' '- [ ] **Topic:** what to try. [needs a person: w
 - [ ] **Seen, not told; a quiet crowd:** near a unit, watch a citizen's break (a tantrum, a beating) start as you look at it with no chat line, and citizens near units glance at you instead of chatting. [needs a person: whether it reads without words]
 - [ ] **Units at the Combine doors:** as a citizen, walk up to a door into a Combine-only zone: three warnings in his voice (a scanner photographs you, he raises his hand, he shoves you), then slip past him: beaten down and you come to outside the door. [needs a person: whether it reads with no text, and his gestures face you]
 - [ ] **Valve's raid and poses:** lc_event raid and watch the knock and the kick (the door opening on the kick), residents running arms over their heads and cowering, the beating heard; a unit leaning at his post; two men frisked at a wall; the punch before an arrest. [needs a person: whether adoorkick, spreadwall and arrestpunch line up with the door and the other person, and the protected run shows]
+- [ ] **Combine generator test map:** compile `_dev/tools/lc_combine_test.vmf` (from livingcity_tools.zip) and walk round the four pieces (wall, gate, tower, plating in an old room): do they read as the Combine's odd, unsymmetrical architecture? [needs a person: how it looks and feels]

diff --git a/docs/dev/valve-ingest-progress.md b/docs/dev/valve-ingest-progress.md
@@ -91,7 +91,9 @@ and NPCs, then its pictures; then batch 6 (the Citadel, with the owner's four pi
 
 - **The Combine generator (the owner, 21 November: "build it next"):** right after batch 6 closes, build
   `_dev/tools/map_combine.py` as planned in TODO.md and `_dev/reference/valve_citadel/` (`notes/architecture_notes.md`, `arch_scripts/`),
-  show the owner one structure on a test map, then carry on with batch 7 (EP2).
+  show the owner one structure on a test map, then carry on with batch 7 (EP2). **Built 21 November:**
+  `map_combine.py` (wall, gate, tower, skin; `test` and `check`), test map `_dev/tools/lc_combine_test.vmf` and its
+  picture; waiting on the owner's look; what it lacks is on TODO.md.
 
 ## The batches (M measured, P pictures reviewed, S studied and lessons merged)
 
